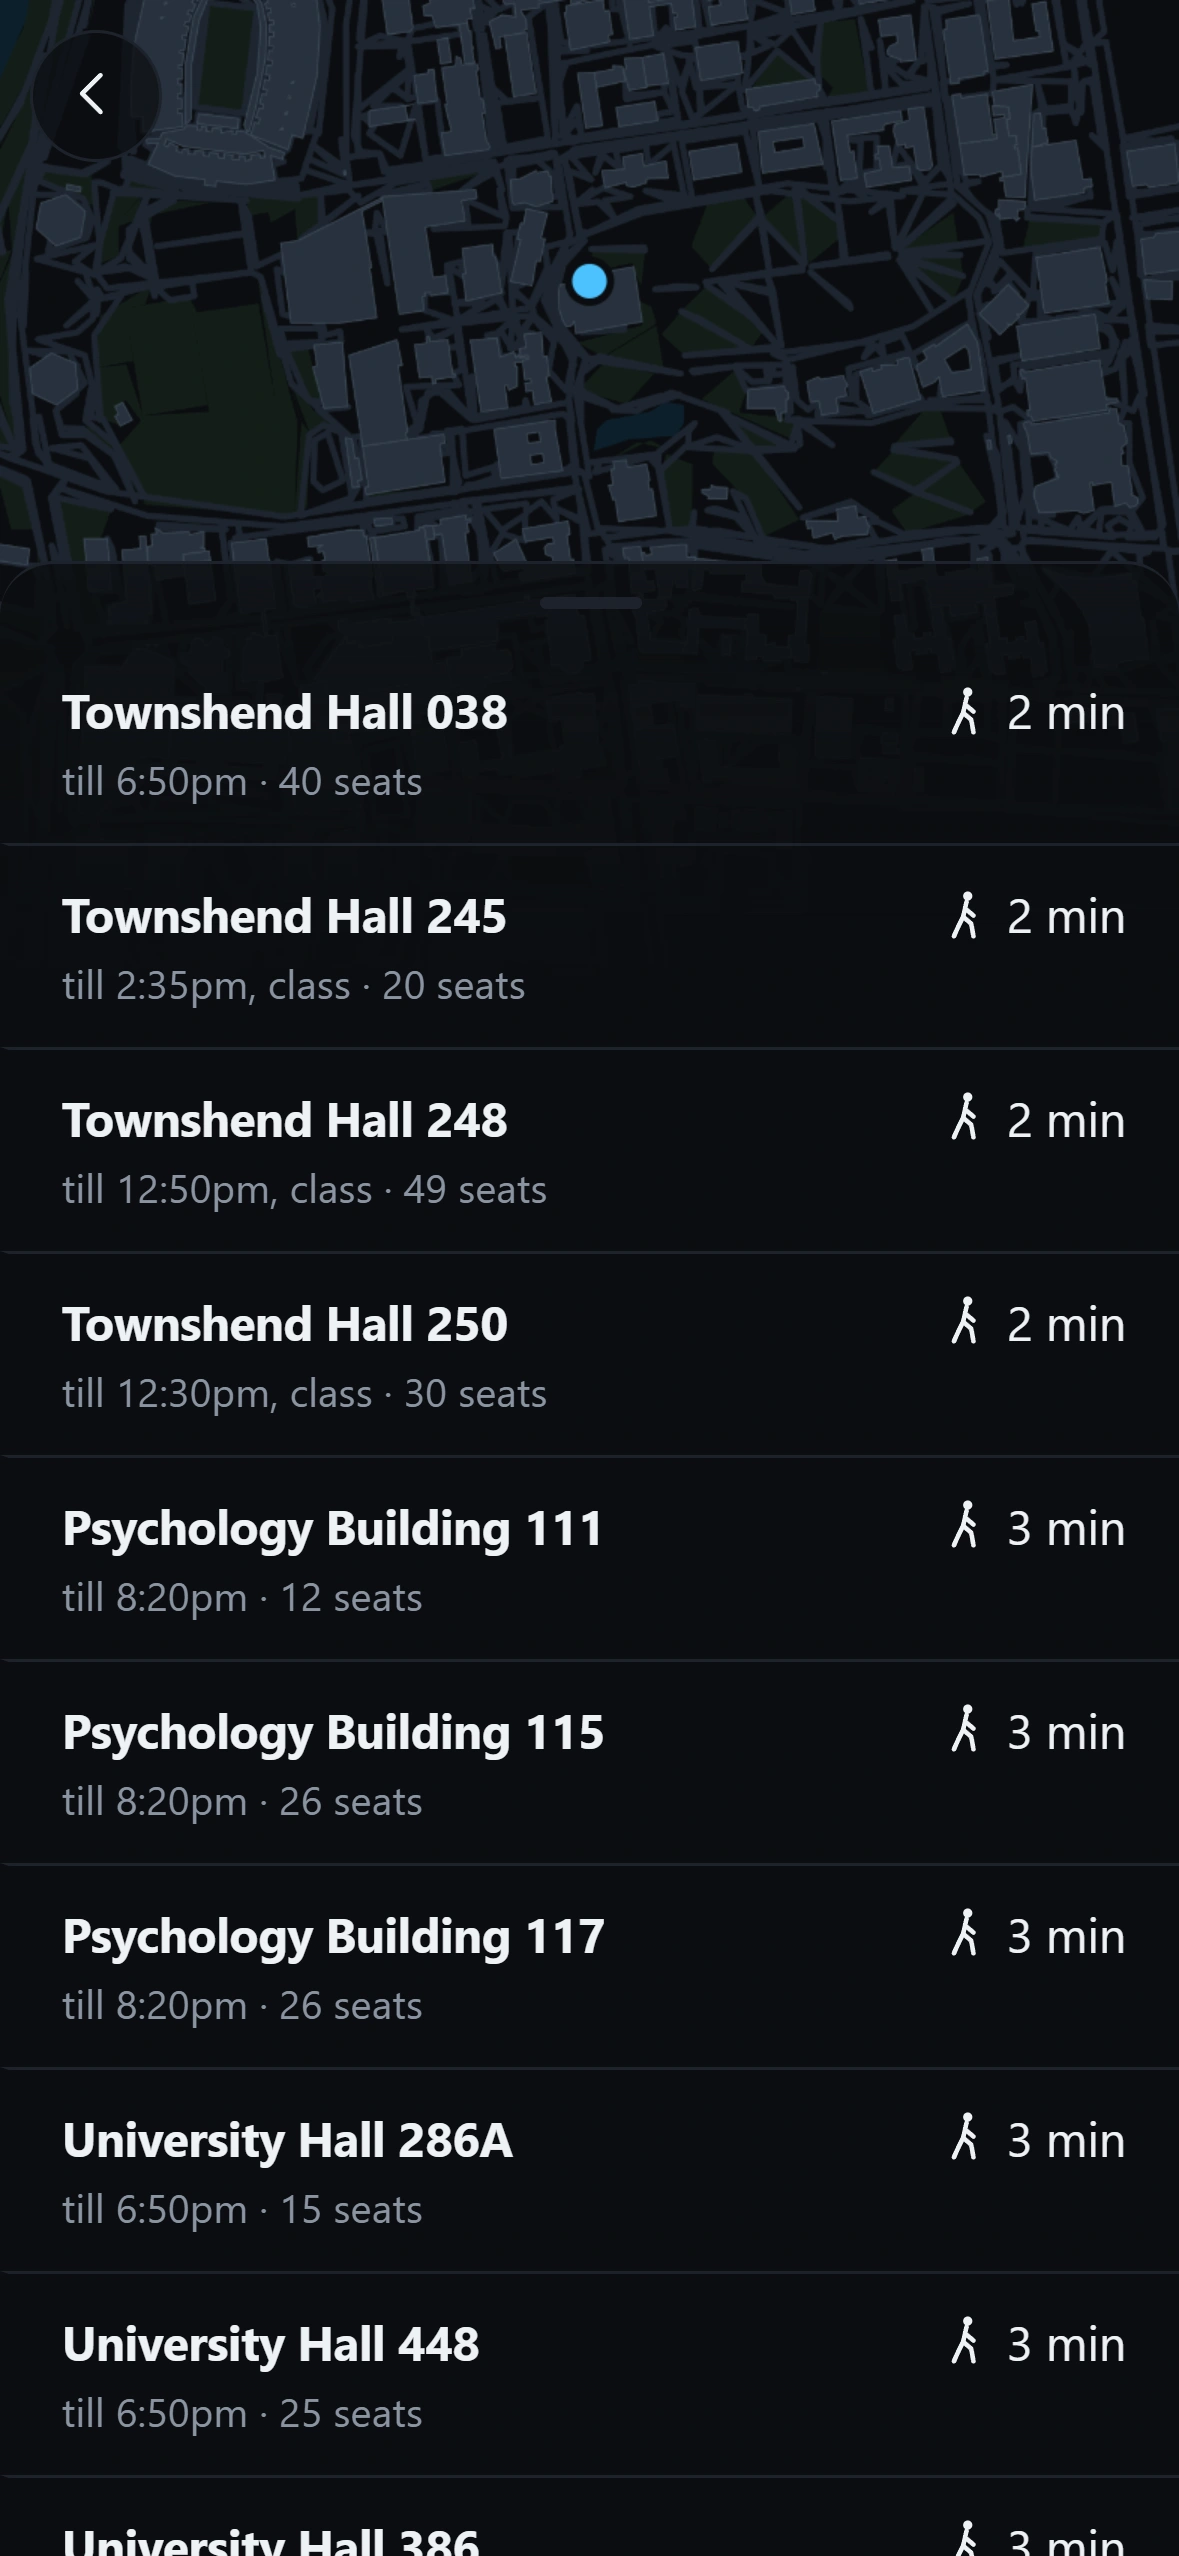
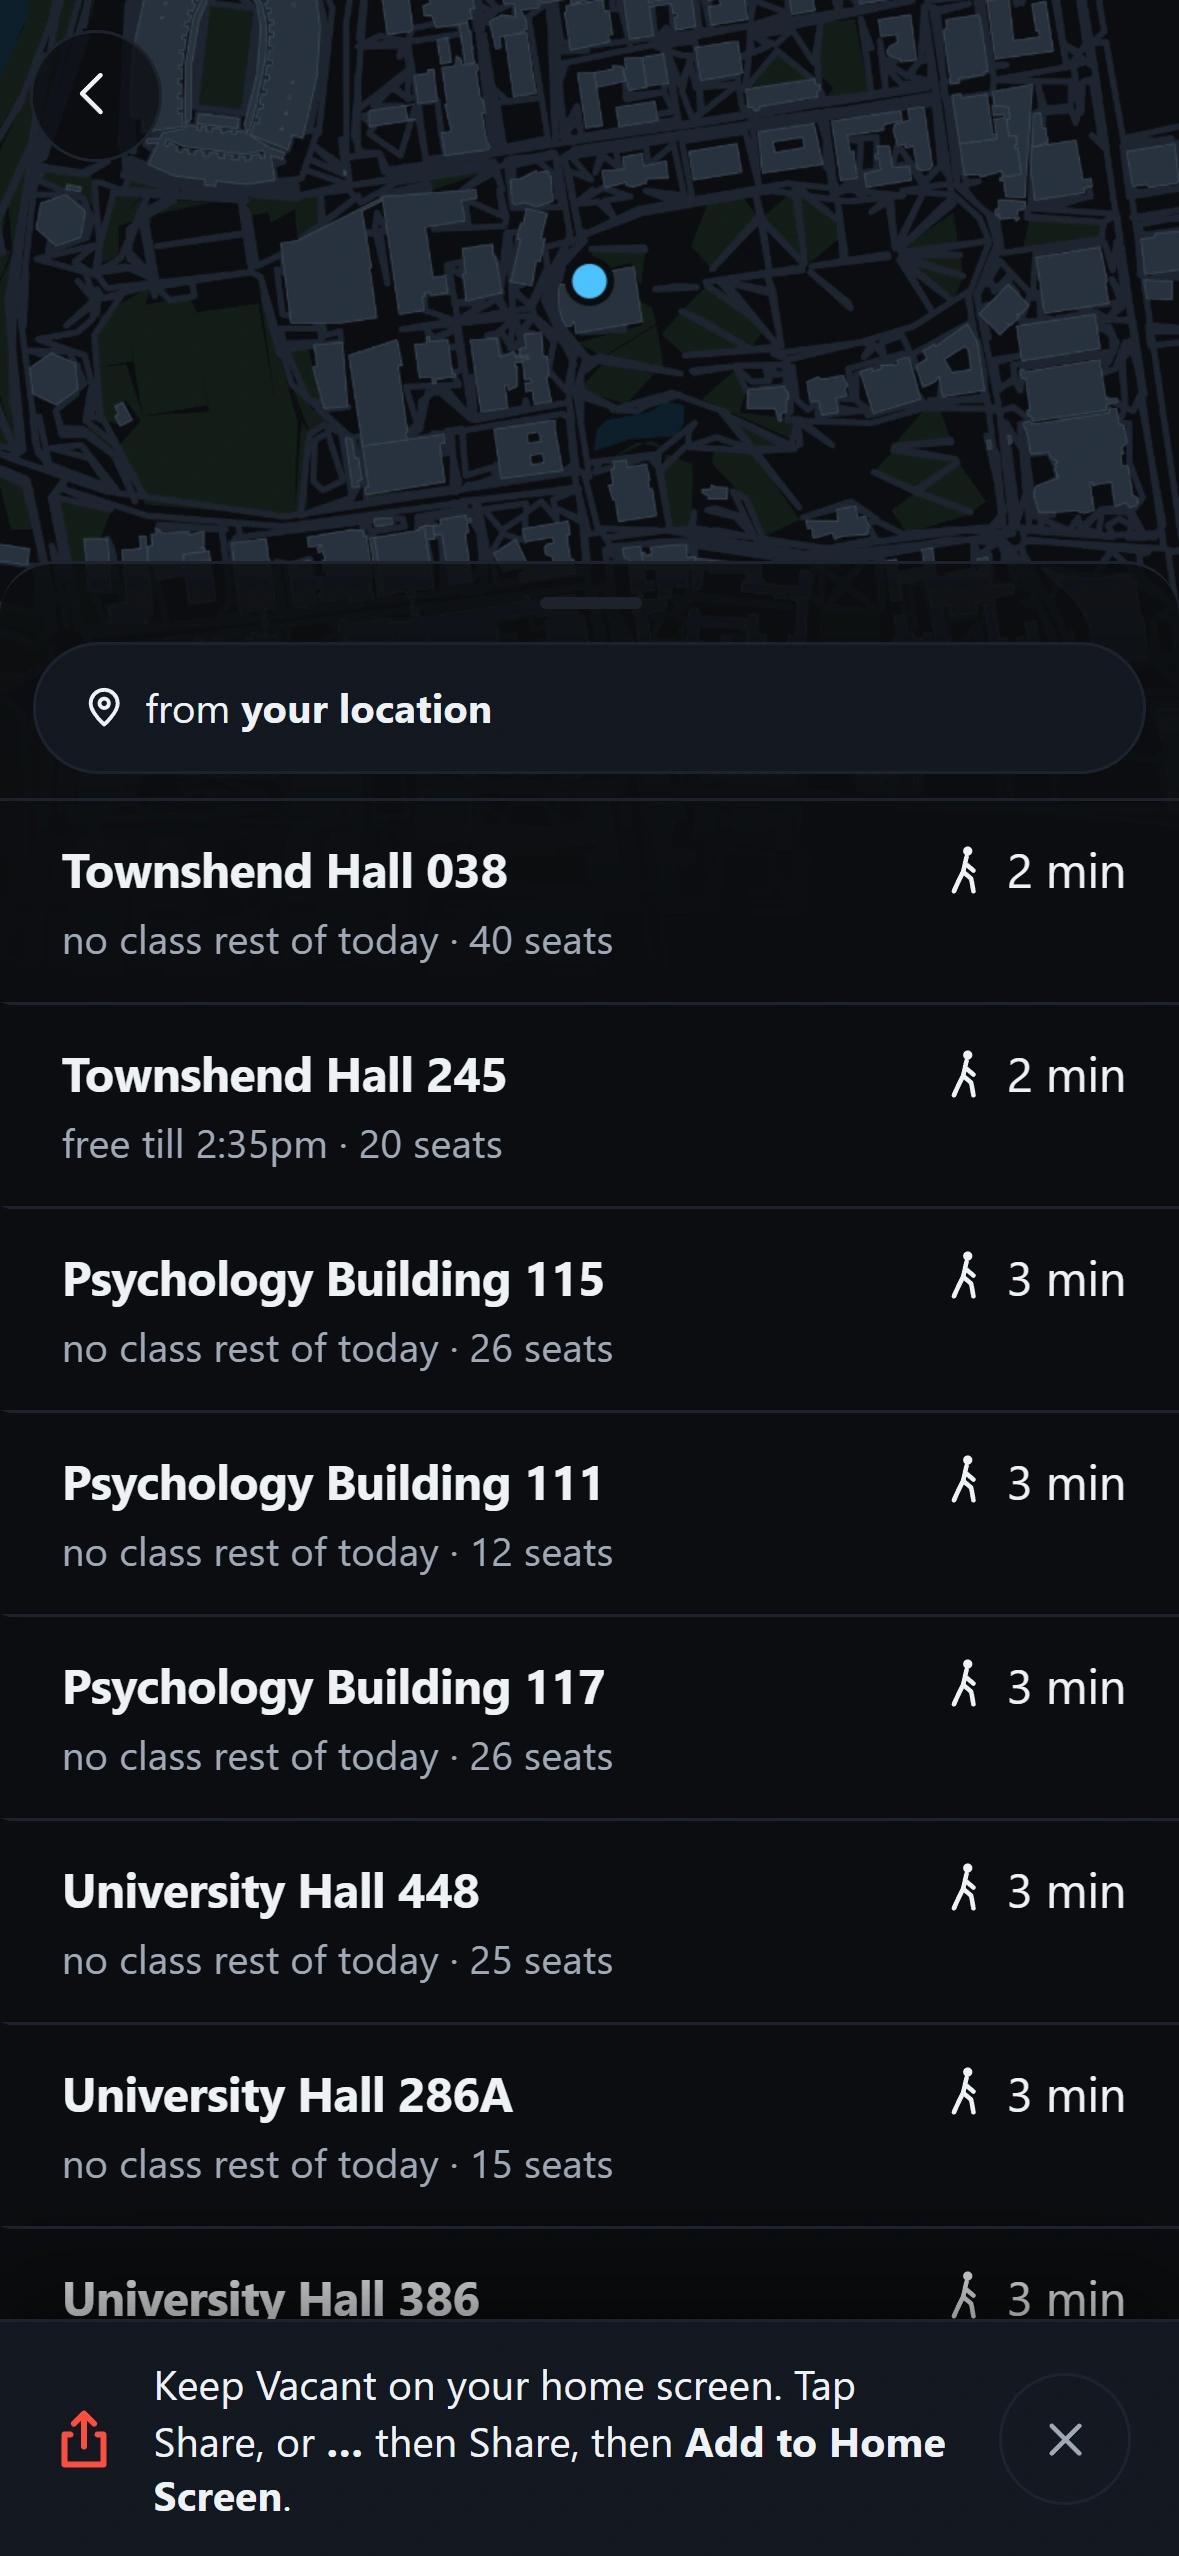
Make the room screen promise the same minute as the row that sent you
Issue #77. The list row promises gapEnd - PACKUP, the minute you have to be
packed up. js/claim.js promised the raw class start, so Townshend Hall 245 read
"free till 2:35pm" in the list and "Free till 2:45pm" one tap later, with
"Yours for 4h13" underneath it already carrying the subtraction. Two answers to
one question on one screen, and the generous one was the one you read last.

Four existing assertions pinned the old contract and are updated with the
reason, not deleted. Re-shot the screenshots, which picked a different room and
made the README's alt text stale; readme.test.mjs caught that, which is what it
is for.

Also brought the README's claims back in line with what shipped today: it
installs and works offline now, and campus holidays and finals week are
subtracted, so both are out of Not built yet and the install section is real.

Closes #77

diff --git a/js/claim.js b/js/claim.js
@@ -21,7 +21,7 @@
 //
 // Pure. Wall-clock minutes in, a verdict out, no Date and no DOM.
 
-import { usableMinutes } from './engine.js';
+import { PACKUP, usableMinutes } from './engine.js';
 
 export function roomClaim({ known, rows = [], blocks = [], open, close, now, metres }) {
   // Null, not zero and not the whole gap. A caller with no distance behind it,
@@ -62,10 +62,17 @@ export function roomClaim({ known, rows = [], blocks = [], open, close, now, met
   const here = rows.find((r) => r.kind === 'free' && r.now);
   if (!here) return { kind: 'nothing-free' };
 
+  // The row promises `gapEnd - PACKUP`, which is when you have to be packed up,
+  // and this line has to promise the same minute. It shipped as the raw class
+  // start, so the room screen read ten minutes later than the row that sent you
+  // there: Townshend Hall 245 said "till 2:35pm" in the list and "Free till
+  // 2:45pm" one tap later, with "Yours for 4h13" underneath it already carrying
+  // the subtraction. Two answers to one question, and the generous one was on
+  // the screen you read last.
   const later = blocks.find(([s]) => s >= now);
   return {
     kind: 'free',
-    until: later ? later[0] : null,
+    until: later ? later[0] - PACKUP : null,
     known: !!known,
     yours: yours(here.t, here.end ?? close),
   };

diff --git a/README.md b/README.md
@@ -4,12 +4,12 @@ Find an empty classroom near you at Ohio State, free for as long as you need it.
 
 ### **[enesyilmazcode.github.io/Vacant](https://enesyilmazcode.github.io/Vacant/)**
 
-It is a web page. Nothing to install, no account, no search box. It finds you, asks
-one question, and hands you rooms you can walk to, nearest first.
+It is a web page. No account, no search box, nothing to sign up for. It finds you,
+asks one question, and hands you rooms you can walk to, nearest first.
 
 | | | |
 | :--: | :--: | :--: |
-| ![The opening screen: the word Vacant over a dark campus map, the question "How long do you need?", and three buttons reading 30 min, 1 hour and 2 hours](docs/media/ask.webp) | ![The ranked list over the map, with a blue dot showing where you are. Townshend Hall 038, 2 min walk, till 6:50pm, 40 seats. Townshend Hall 245, 2 min, till 2:35pm, class, 20 seats.](docs/media/list.webp) | ![One room picked, Cunz Hall 160. Its building footprint is outlined in red on the map and a dashed line runs from the blue dot to it, labelled 4 min walk.](docs/media/room.webp) |
+| ![The opening screen: the word Vacant over a dark campus map, the question "How long do you need?", and three buttons reading 30 min, 1 hour and 2 hours](docs/media/ask.webp) | ![The ranked list over the map, with a blue dot showing where you are. 251 rooms free, 40 shown. Townshend Hall 038, 2 min walk, no class rest of today, 40 seats. Townshend Hall 245, 2 min, free till 2:35pm, 20 seats.](docs/media/list.webp) | ![One room picked, Townshend Hall 245. Its building footprint is outlined in red on the map and a dashed line runs from the blue dot to it, labelled 2 min walk.](docs/media/room.webp) |
 | One question. | The answer. | Where it is. |
 
 ## Yours for, not free until
@@ -22,19 +22,38 @@ in the room's schedule, subtracts the walk, and leaves ten minutes at the end so
 you are not packing up while the next class files in. Walk time is straight line
 distance times 1.3 for the fact that campus paths bend, at 78 metres a minute.
 
-Read the second row of the middle screenshot. Townshend Hall 245 says **till
-2:35pm**. The next class in that room starts at 2:45pm, you are two minutes away,
-and 2:35pm is what is actually left for you.
+Read the second row of the middle screenshot. Townshend Hall 245 says **free
+till 2:35pm**. The next class in that room starts at 2:45pm, you are two minutes
+away, and 2:35pm is when you have to be packed up.
 
-The word after the time is the other half of the answer. `till 2:35pm, class`
-means a class walks in then. `till 6:50pm` with nothing after it means no class
-is coming at all, and the time is when the building locks, less the same ten
-minutes.
+Tap it and the room screen says the same minute, then spells the rest out:
+**Yours for 4h13 once you get there.** The two screens agreeing is the point.
+They did not for a while: the room screen printed 2:45pm, the raw class start,
+handing back the ten minutes the row had already taken off
+([#77](https://github.com/EnesYilmazcode/Vacant/issues/77)).
+
+A row that says **no class rest of today** instead of a time means no class is
+coming at all, and the timeline behind it ends where the building locks.
 
 | | |
 | :--: | :--: |
-| ![The list dragged up to fill the screen, showing ten rooms across three buildings, all two or three minutes away](docs/media/list-full.webp) | ![The room screen for Cunz Hall 160: no class in here for the rest of today, 4 min walk, 192 m, 42 seats, classroom, then a timeline reading 6:30am Cunz Hall opens, 6:30am free for 1h30, 8:00am in use, 9:10am in use, 10:05am free for 8h55, 7:00pm Cunz Hall closes](docs/media/timeline.webp) |
+| ![The list dragged up to fill the screen, showing ten rooms across three buildings, all two or three minutes away](docs/media/list-full.webp) | ![The room screen for Townshend Hall 245: free till 2:35pm, yours for 4h13 once you get there, 2 min walk, 76 m, 20 seats, conference room, then a timeline reading 7:00am Townshend Hall opens, 7:00am free for 7h45, 2:45pm in use, 4:45pm free for 2h15, 7:00pm Townshend Hall closes](docs/media/timeline.webp) |
 | Drag the sheet up for the rest. | Tap a room twice for its whole day, doors included. |
+
+## Put it on your home screen
+
+You do not have to. But it is built to be installed, and installing it is what
+makes it answer in a stairwell.
+
+On iPhone, open it in Safari and tap Share, or **...** then Share if your tab bar
+sits at the bottom, then **Add to Home Screen**. iOS 26 defaults to that Compact
+layout, which is why the app offers you both. On Android, Chrome has **Install
+app** in its menu.
+
+Installed, the whole app is 69 KB of shell and 66 KB of schedule, gzipped, and
+none of it is fetched again to answer a question. Turn the network off, open it,
+and it still ranks rooms. That matters because the moment you want it most is the
+moment you are in a basement with one bar.
 
 ## What it refuses to guess
 
@@ -126,25 +145,13 @@ already left the API and cannot be refetched at any price.
 
 ## Not built yet
 
-- **It does not install and it does not work offline.** There is no service worker
-  and no web app manifest yet, which is
-  [#21](https://github.com/EnesYilmazcode/Vacant/issues/21),
-  [#22](https://github.com/EnesYilmazcode/Vacant/issues/22) and
-  [#23](https://github.com/EnesYilmazcode/Vacant/issues/23). The architecture is
-  built for it: the whole schedule is one small static file on purpose.
-- **Campus holidays and finals week are not subtracted.** The Registrar publishes
-  both on the same page the hours come from.
-  [#11](https://github.com/EnesYilmazcode/Vacant/issues/11) puts them in the index,
-  [#19](https://github.com/EnesYilmazcode/Vacant/issues/19) puts the refusal on the
-  screen.
-- **The list is a room list where it should be a place list.** One building can
-  take a third of the forty rows.
+- **The list is a room list where it should be a place list.** Forty rows came
+  back across thirteen buildings, and one of them took six of them.
   [#62](https://github.com/EnesYilmazcode/Vacant/issues/62).
-- **The room screen hands back the ten minutes the row took off.** Open a room
-  whose window ends at a class and the headline prints the minute the class
-  starts, not the minute you have to be out, so it reads ten minutes later than
-  the row you tapped. The row is the right one.
-  [#77](https://github.com/EnesYilmazcode/Vacant/issues/77).
+- **Nobody has walked to a room the app called free and checked.** That is the
+  measurement the whole thing rests on and it has not been taken.
+  [#26](https://github.com/EnesYilmazcode/Vacant/issues/26) is the walk, and
+  `spikes/walk.html` is the checklist to walk it with.
 
 ## Roomix
 
